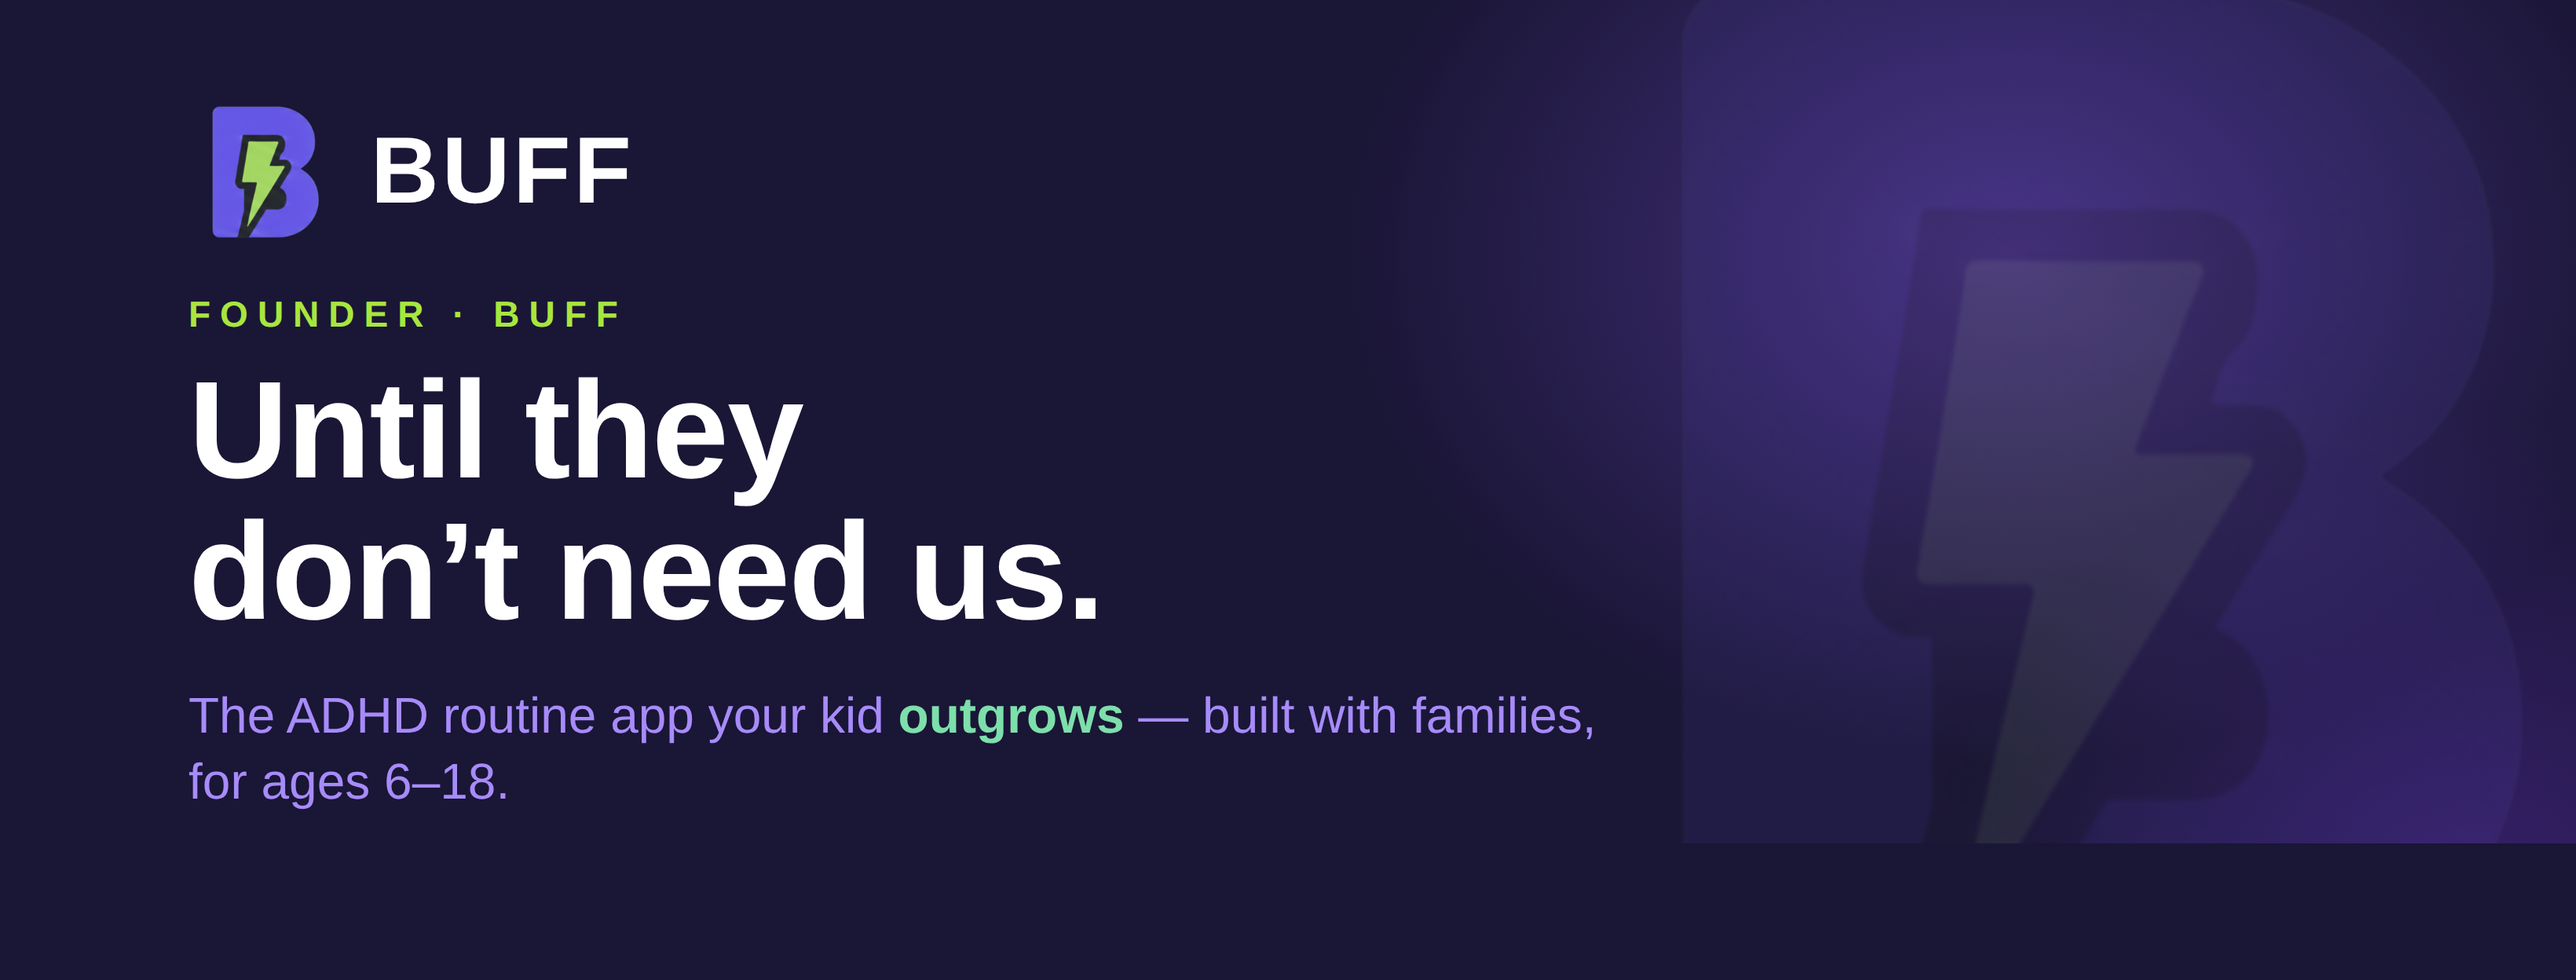
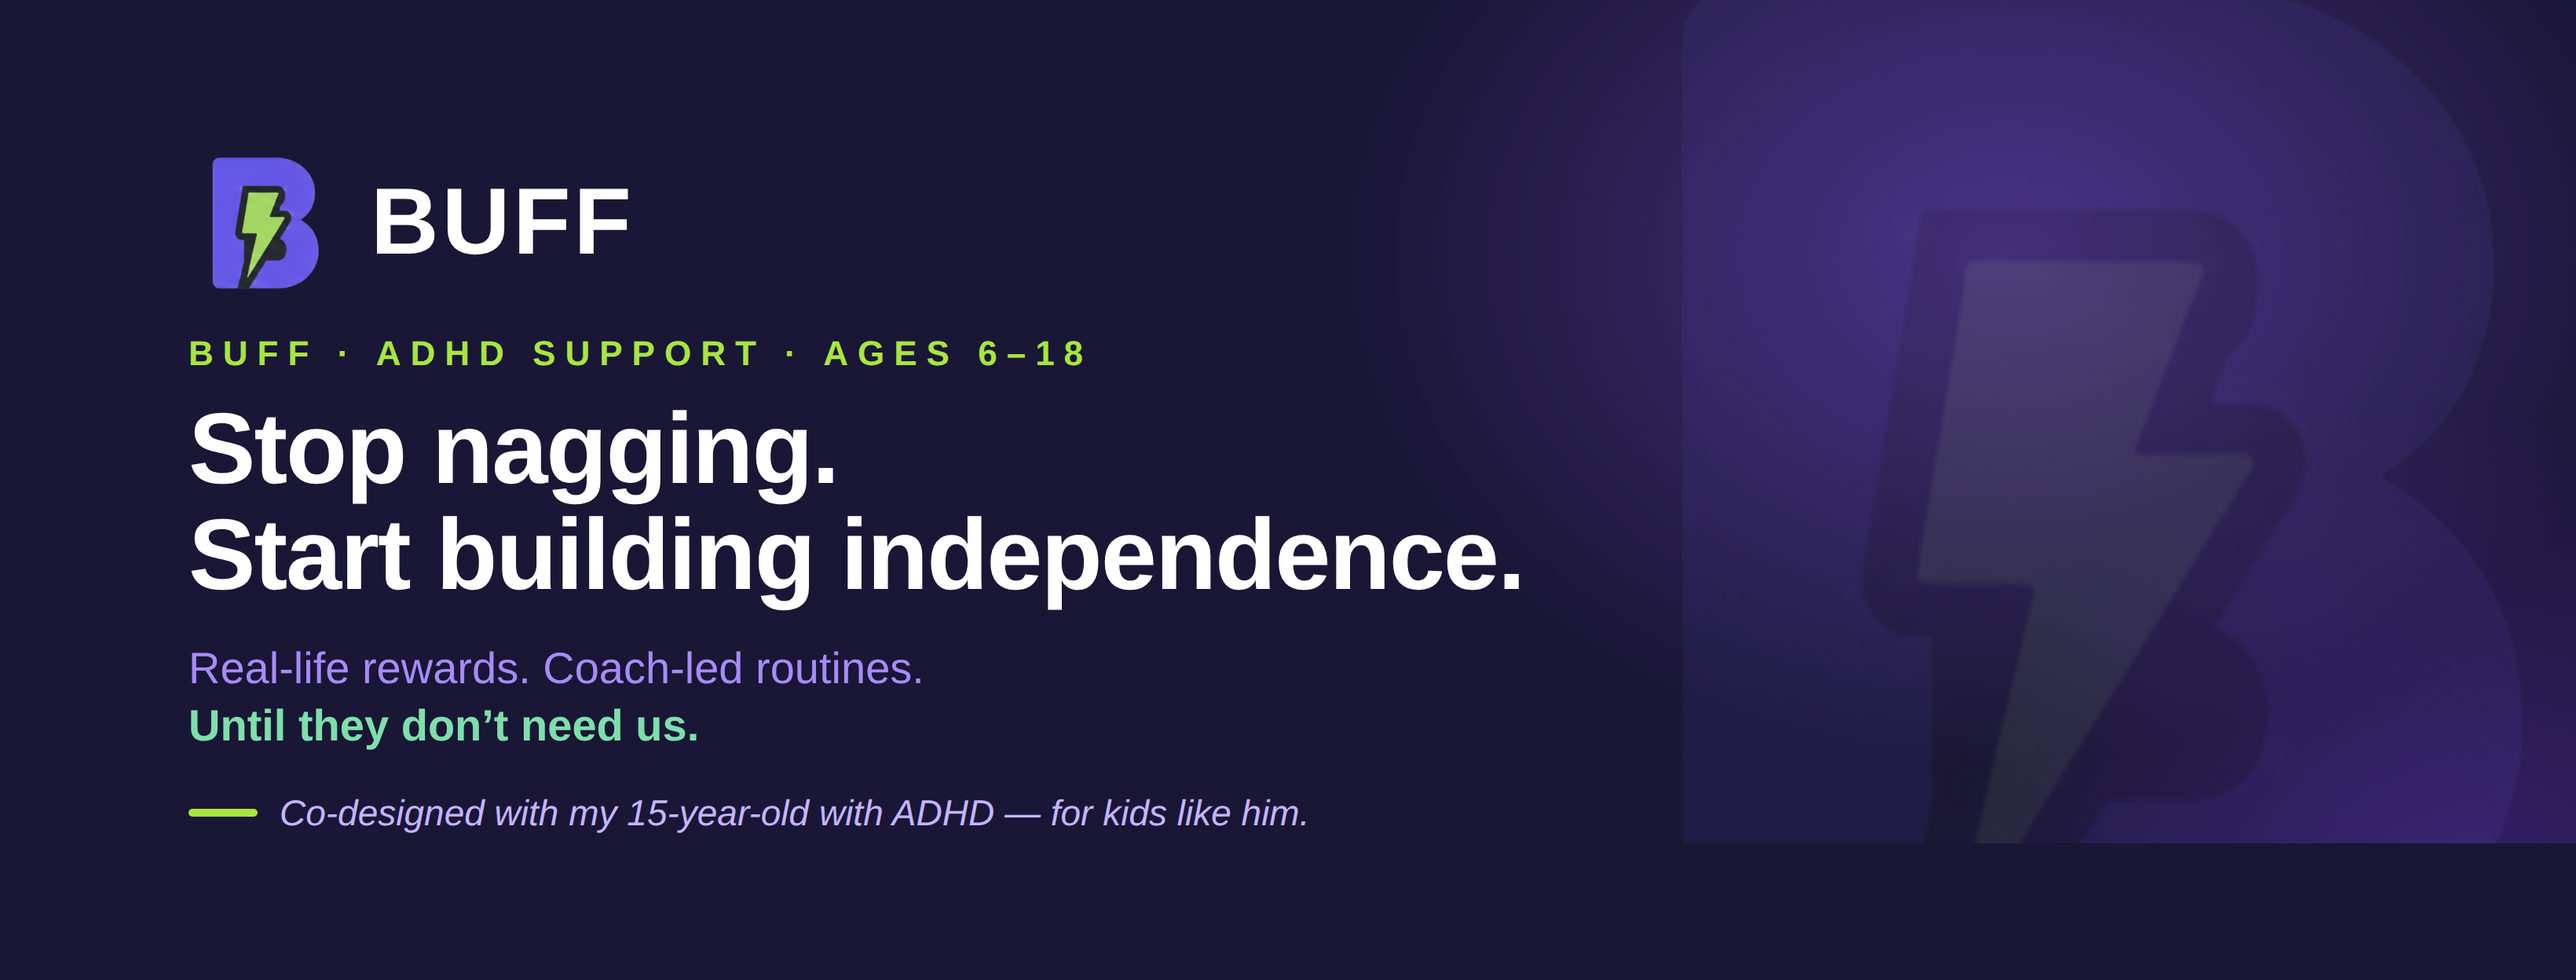
docs(marketing): refine FB founder cover copy (clarity-led hero)
Reworked cover text after a second-opinion critique converged with our own:
- Hero is now the pain->outcome line 'Stop nagging. Start building
  independence.' (was the mission tagline, too abstract for cold traffic)
- Mission tagline 'Until they don't need us.' moved to subhead as the payoff
- Kicker carries the real differentiator: 'ADHD support · Ages 6-18'
- Replaced vague 'built with families' with the authentic, concrete
  'Co-designed with my 15-year-old with ADHD — for kids like him.'
Same brand tokens, logo, and spaceship-test compliance.

Changed region(s): [[0.0622, 0.0938, 0.5909, 0.8438], [0.4665, 0.7188, 0.622, 0.75]]

diff --git a/docs/marketing-assets/README.md b/docs/marketing-assets/README.md
@@ -31,4 +31,4 @@ Examples:
 | File | Purpose | Used in |
 |---|---|---|
 | `philosophy-hero-2026-05-15.jpg` (pending — Adi to save from chat) | Screenshot of `/philosophy` 3-Principles hero | LinkedIn post 2026-05-15 (planned) |
-| `fb-cover-founder-2026-07-24.png` | Facebook cover photo — deep-violet, mission tagline "Until they don't need us." + real logo. 3280×1248 (2× of 1640×624 FB upload size). Brand-exact (BRAND §7.2 tokens, spaceship-test compliant). | Adi's FB profile refurbish — [MARKETING_BACKLOG Track H / H-1](../BUFF_MARKETING_BACKLOG.md#66-track-h--group-reputation--profile-as-landing-page-brief) |
+| `fb-cover-founder-2026-07-24.png` | Facebook cover photo — deep-violet + real logo. Hero "Stop nagging. Start building independence." · kicker "BUFF · ADHD support · Ages 6–18" · mission tagline "Until they don't need us." moved to subhead · credibility line "Co-designed with my 15-year-old with ADHD — for kids like him." 3280×1248 (2× of 1640×624 FB upload size). Brand-exact (BRAND §7.2 tokens, spaceship-test compliant). Copy refined 2026-07-24 vs a second-opinion critique (hero was mission tagline; moved down for clarity-led hero). | Adi's FB profile refurbish — [MARKETING_BACKLOG Track H / H-1](../BUFF_MARKETING_BACKLOG.md#66-track-h--group-reputation--profile-as-landing-page-brief) |
